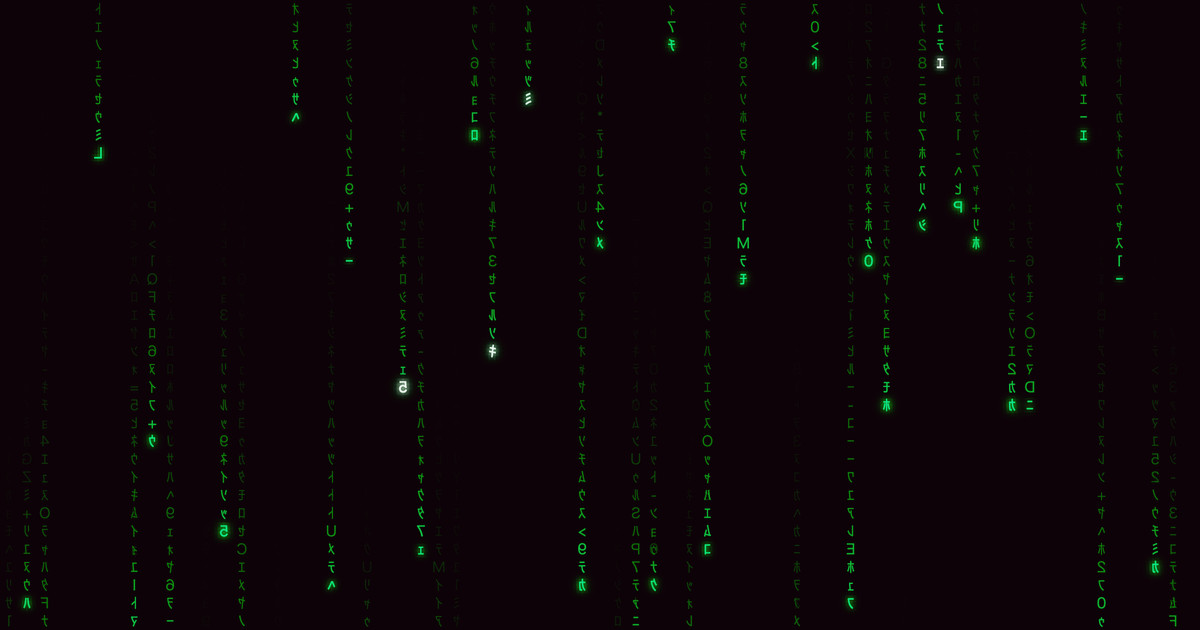
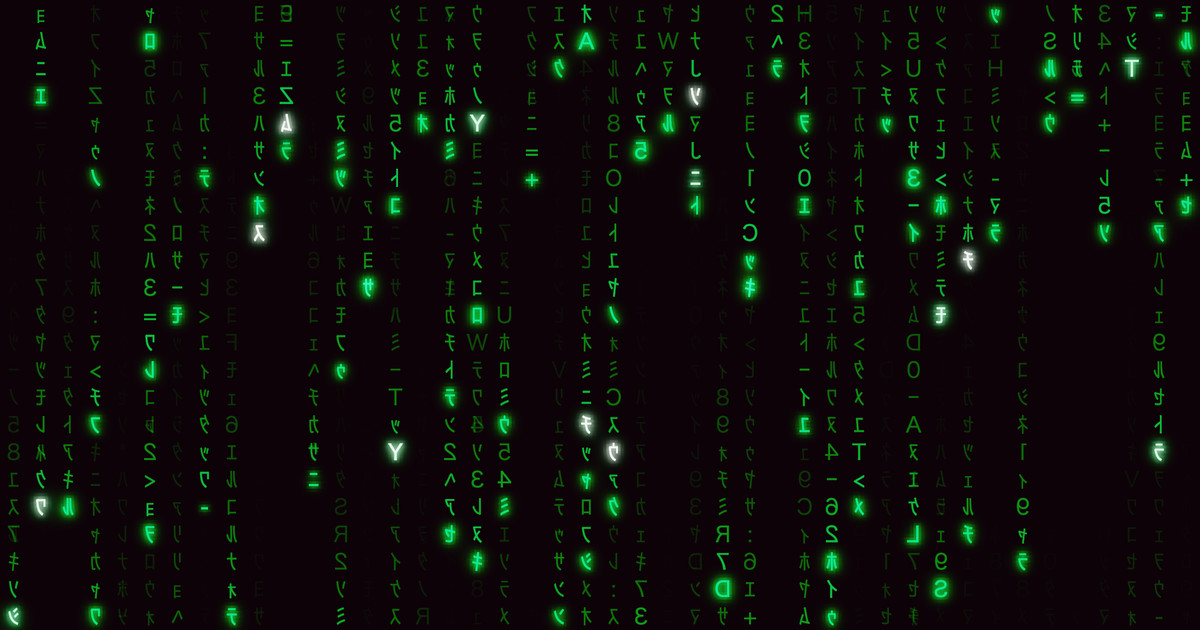
Recapture the share card with denser rain, larger glyphs and a stronger glow so it reads as Matrix rain at thumbnail size

diff --git a/scripts/capture_share_card.py b/scripts/capture_share_card.py
@@ -3,11 +3,11 @@
 
 Serves dist/ on a throwaway loopback port and opens matrixcode.html in
 headless Chromium at a 1200x630 CSS viewport and 2x device pixels, with fresh
-storage so every setting is at its default. It skips the typed intro with
-Escape, waits for the settings panel to auto-hide and the rain to fill the
-screen, then samples a run of frames. The frame
-whose lit glyphs cover the most of the screen is Lanczos-downscaled 2:1 and
-saved as a progressive JPEG. Nothing is drawn, composited, or retouched.
+storage and a few showcase settings from the panel passed in the URL. It skips
+the typed intro with Escape, waits for the settings panel to auto-hide and the
+rain to fill the screen, then samples a run of frames. The frame whose bright
+leading glyphs are spread most evenly is Lanczos-downscaled 2:1 and saved as a
+progressive JPEG. Nothing is drawn, composited, or retouched.
 See docs/share-card.md.
 
 Requires `npm run build` first, plus Playwright for Python and Pillow:
@@ -27,21 +27,26 @@ import io
 import sys
 import threading
 from pathlib import Path
+from urllib.parse import urlencode
 
 from PIL import Image, ImageStat
 from playwright.sync_api import sync_playwright
 
 ROOT = Path(__file__).resolve().parent.parent
 CARD_SIZE = (1200, 630)
+# Panel settings a viewer can choose (as URL params) so the card still reads as rain at
+# thumbnail size: denser rain, 1.5x glyphs and a stronger glow. Everything else is default.
+SHOWCASE_SETTINGS = {"density": "12", "size": "1.5", "glow": "1.3"}
 # The app caps devicePixelRatio at 2, so 2x is the sharpest real render.
 DEVICE_SCALE = 2
 # The intro is skipped; this covers the 8 s density ramp and lets every column start falling.
 SETTLE_MS = 25_000
 FRAME_COUNT = 30
 FRAME_INTERVAL_MS = 1_200
-# Frames are scored by the share of grid blocks holding at least one lit glyph pixel.
+# Frames are scored by the share of grid blocks holding a bright leading glyph (near white;
+# the classic green trail stays below this luma).
 COVERAGE_GRID = (12, 7)
-LIT_LUMA = 120
+LEAD_LUMA = 200
 JPEG_OPTIONS = {"quality": 90, "progressive": True, "optimize": True, "subsampling": 0}
 # Metal-backed ANGLE keeps WebGL2 on the GPU in headless Chromium on macOS.
 CHROMIUM_ARGS = ["--use-angle=metal", "--enable-gpu", "--ignore-gpu-blocklist"] if sys.platform == "darwin" else []
@@ -55,7 +60,7 @@ def coverage(frame: Image.Image) -> float:
     for row in range(rows):
         for column in range(columns):
             box = (column * width // columns, row * height // rows, (column + 1) * width // columns, (row + 1) * height // rows)
-            if luma.crop(box).getextrema()[1] > LIT_LUMA:
+            if luma.crop(box).getextrema()[1] > LEAD_LUMA:
                 lit += 1
     return lit / (columns * rows)
 
@@ -125,7 +130,8 @@ def main() -> None:
     server = serve(args.dist)
     try:
         # Adaptive resolution only scales the render target; turning it off keeps every frame at full 2x.
-        frames = capture_frames(f"http://127.0.0.1:{server.server_address[1]}/matrixcode.html?adaptive=0")
+        query = urlencode({**SHOWCASE_SETTINGS, "adaptive": "0"})
+        frames = capture_frames(f"http://127.0.0.1:{server.server_address[1]}/matrixcode.html?{query}")
     finally:
         server.shutdown()
 

diff --git a/docs/share-card.md b/docs/share-card.md
@@ -22,24 +22,31 @@ The card is an unretouched frame of the real running effect, made by
   WebGL2 on ANGLE Metal, Apple M4, macOS.
 - 1200 × 630 CSS viewport at device scale 2 (2400 × 1260 device pixels; the
   app caps `devicePixelRatio` at 2), dark color scheme, no reduced motion.
-- Fresh browser storage, so every setting is its default: classic green theme,
-  density 2, high quality, no scanlines or vignette, messages and images off.
-  Not a calendar occasion, so no holiday colour override or greeting applied.
+- Fresh browser storage plus three settings a viewer can pick in the panel,
+  passed as URL params: `?density=12&size=1.5&glow=1.3` (density 12, glyph
+  size 1.5, glow 1.3). The defaults (density 2, size 1, glow 0.9) give a sparse,
+  dim frame that reads as a mostly black rectangle at Messages thumbnail size.
+  The denser rain, larger glyphs and stronger glow keep it legible as Matrix
+  rain when small. Everything else is default: classic green theme, high
+  quality, no scanlines or vignette, messages and images off. Not a calendar
+  occasion, so no holiday colour override or greeting applied.
 - `?adaptive=0`, which only stops adaptive resolution from lowering the render
   target, so each frame renders at the full 2× resolution. The look is unchanged.
 - Escape dismissed the settings panel shown on load and skipped the typed
   intro. The rain then ran for 25 seconds to finish its density ramp and fill
   the screen. 30 frames were sampled with 1.2-second pauses between them, and
-  the frame whose lit glyphs covered the most of the screen was kept (frame 6,
-  45% of a 12 × 7 block grid).
+  the frame whose bright leading glyphs were spread most evenly was kept
+  (frame 27: near-white glyphs in 23% of a 12 × 7 block grid).
 - Lanczos downscale 2:1 to 1200 × 630, saved by Pillow as a progressive JPEG,
-  quality 90, 4:4:4 chroma, no metadata (86,581 bytes).
+  quality 90, 4:4:4 chroma, no metadata (170,328 bytes).
 
 ## Regenerating
 
-Regenerate the card when the default look changes (glyphs, bloom, colours,
-density or trail tuning). Capture on an ordinary day: on 14 February, 17 March,
-25 December or a full moon the app applies an occasion colour theme or greeting.
+Regenerate the card when the look changes (glyphs, bloom, colours, density or
+trail tuning). The showcase settings live in `SHOWCASE_SETTINGS` in the script;
+keep them to values a viewer can pick in the settings panel. Capture on an
+ordinary day: on 14 February, 17 March, 25 December or a full moon the app
+applies an occasion colour theme or greeting.
 
 ```sh
 python3 -m venv /tmp/sharecardvenv
@@ -50,7 +57,7 @@ npm run build
 ```
 
 The script fails if the page logs an error or warning, or falls back to the
-Canvas2D renderer. It writes the best-covered frame to `public/share-card.jpg`.
-`--candidates` also saves every sampled frame with its coverage score, so you
+Canvas2D renderer. It writes the best-scoring frame to `public/share-card.jpg`.
+`--candidates` also saves every sampled frame with its score, so you
 can review them and copy in a better frame. Then update the provenance above
 and run `npm test`.

diff --git a/CLAUDE.md b/CLAUDE.md
@@ -16,7 +16,7 @@
 - `npm run verify:windows` — native MSVC tests plus the WARP capture on Windows; `npm run release:windows` produces release artifacts.
 - Native, from `macos/MatrixCodeScreenSaver/`: `./test.sh` (xcodegen + `xcodebuild test`), `./build.sh` (thin wrapper over `scripts/build-release.sh --auto-signing`), `./install.sh` (release build → `~/Library/Screen Savers`). For a signed/notarized DMG use `scripts/build-release.sh --release` from the repo root. Xcode is located by `scripts/lib/xcode-developer-dir.sh` (DEVELOPER_DIR → XCODE_APP → non-CLT `xcode-select -p` → usual paths → Spotlight), so an Xcode outside `/Applications` needs no `xcode-select --switch`; set `XCODE_APP` to pin one.
 - `test/test_dmg_*.py` are pytest, **not** part of `npm test`. They need their own venv: `python3 -m venv /tmp/dmgvenv && /tmp/dmgvenv/bin/pip install ds_store mac_alias pillow pytest`.
-- `scripts/capture_share_card.py` recaptures `public/share-card.jpg`, the link-preview image named by the Open Graph tags in `index.html`, from a built `dist/` (Playwright for Python and Pillow in their own venv; see `docs/share-card.md`). Rerun it when the default look changes.
+- `scripts/capture_share_card.py` recaptures `public/share-card.jpg`, the link-preview image named by the Open Graph tags in `index.html`, from a built `dist/` (Playwright for Python and Pillow in their own venv; see `docs/share-card.md`). Rerun it when the rendered look changes.
 
 ## Cross-implementation traps
 

diff --git a/AGENTS.md b/AGENTS.md
@@ -12,7 +12,7 @@ This file provides guidance to Codex (Codex.ai/code) when working with code in t
 
 - `npm run dev` — Vite dev server (port 5188, registered with LanternPad; assume it is already running).
 - `npm run build` — type-checks (`tsc --noEmit`) then builds a single inlined `matrixcode.html` via `vite-plugin-singlefile`.
-- `scripts/capture_share_card.py` — recaptures `public/share-card.jpg`, the link-preview image named by the Open Graph tags in `index.html`, from the built app. It needs Playwright for Python and Pillow; see `docs/share-card.md`. Rerun it when the default look changes.
+- `scripts/capture_share_card.py` — recaptures `public/share-card.jpg`, the link-preview image named by the Open Graph tags in `index.html`, from the built app. It needs Playwright for Python and Pillow; see `docs/share-card.md`. Rerun it when the rendered look changes.
 - `npm run build:wallpaper` — builds the browser artifact and packages an offline Wallpaper Engine web wallpaper in `dist/wallpaper-engine/`.
 - `npm run verify:wallpaper` — checks that generated `wallpaper-engine/project.json` matches the canonical property catalog.
 - `npm run preview` — serve the production build.
